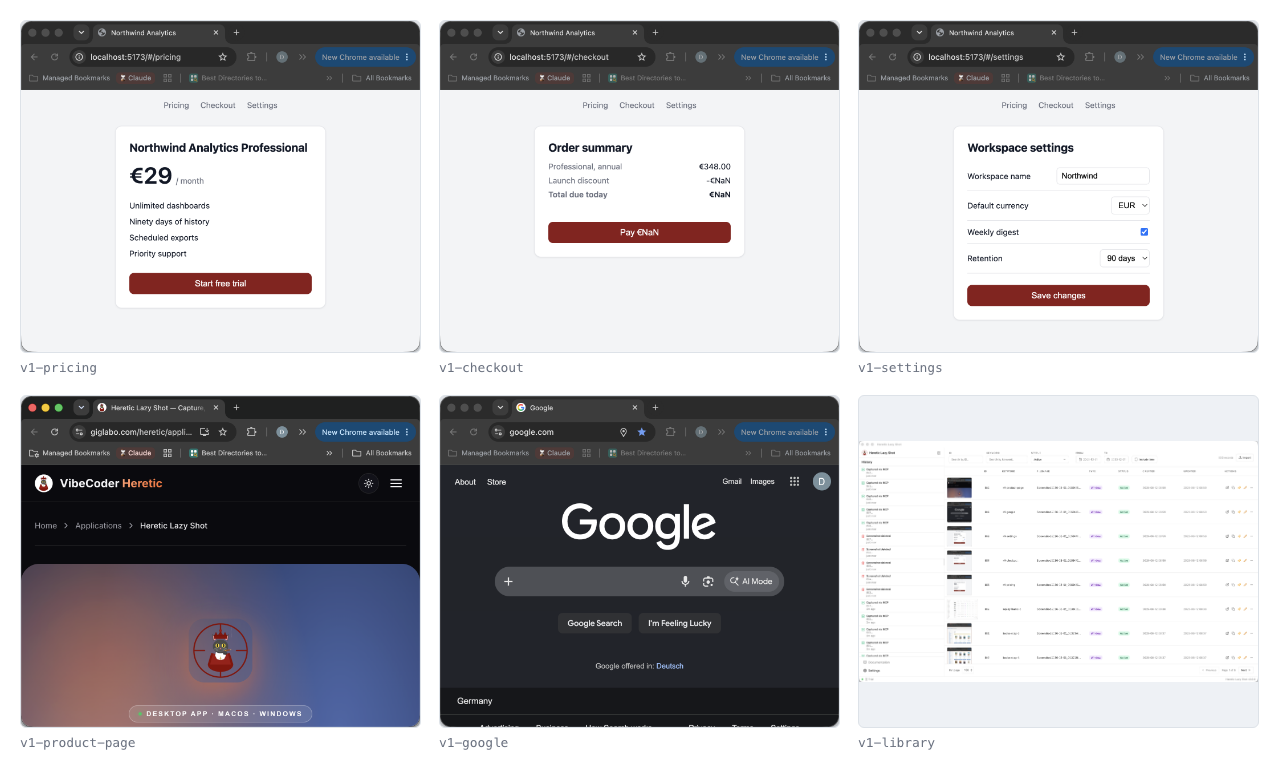
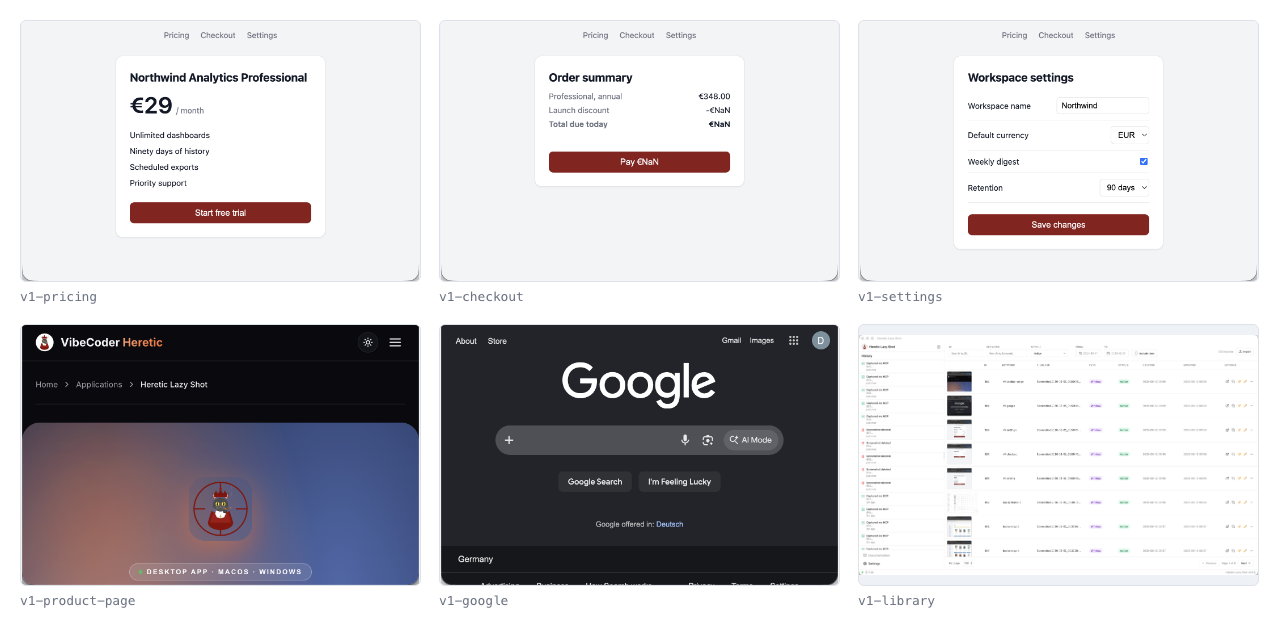
assets: A6 without the bookmarks bar
Same six windows, tiles cropped to the page. What had to leave the sheet was
readable text — a Managed Bookmarks folder and two bookmark titles across
every browser tile — not the profile avatar, which identifies nobody and was
never worth the re-shoot I started.

The bar could not be turned off from here, and the three dead ends are now in
the scenario so nobody repeats them. Cmd+Shift+B through System Events needs
Accessibility permission and fails silently, which makes the second press —
the one that restores the setting — dangerous rather than merely useless.
Incognito shows the bar too; it is a global setting, and all incognito drops
is the avatar. Guest mode does hide it and lands on Chrome's search-engine
choice screen instead, with --disable-search-engine-choice-screen ignored
because an instance was already running.

So: crop below the toolbar. A plain crop, not a splice — the sheet shows six
screens rather than six window frames, and nothing is stitched back together.

1280 x 632, 136 KB. OCR of the finished sheet finds no bookmark, folder or
account text.

diff --git a/scenarios/A6-sweep-grid.md b/scenarios/A6-sweep-grid.md
@@ -1,6 +1,6 @@
 # A6 — the release sweep contact sheet
 
-**Output:** ✅ **shot** — `assets/recipes/04-release-day-batch-capture/sweep-grid.png`, 1280 × 774, 168 KB.
+**Output:** ✅ **shot** — `assets/recipes/04-release-day-batch-capture/sweep-grid.png`, 1280 × 632, 136 KB.
 
 One command, a set of named artifacts. The asset is about *volume and naming* — the individual tiles don't need to be readable, the keywords do.
 
@@ -68,12 +68,20 @@ The bad tile is real. `./step.sh checkout-broken` leaves `subtotal * '10%'` in t
 
 ## Curate before you shoot, not after
 
-Everything in this grid ends up in a public repository, and window chrome carries more than you think. Two tiles were cut from this shoot after looking at them at full size:
+Everything in this grid ends up in a public repository, and window chrome carries more than the window does. Two things were cut from this shoot after looking at the captures at full size:
 
-- A **Finder** window showed the account name in the sidebar — a work email address and the machine's hostname — from a folder listing that seemed harmless.
-- The first pass had the **bookmarks bar** in frame on every browser tile, including a `Managed Bookmarks` folder that says the profile belongs to a managed device.
+- A **Finder** tile showed the account name in the sidebar — a work email address and the machine's hostname — from a folder listing that had looked harmless.
+- Every browser tile carried the **bookmarks bar**: a `Managed Bookmarks` folder, which says the profile belongs to a managed device, plus two bookmark titles.
 
-Hide the bookmarks bar (`Cmd+Shift+B`) before the sweep rather than cropping it afterwards, and prefer an incognito window for anything you don't want carrying a profile avatar. Do not try to send that shortcut from a script; `System Events` keystrokes need Accessibility permission and fail silently without it, which on the second attempt means you toggle the user's setting and don't know it.
+What matters is **readable text** — addresses, folder and bookmark names, window titles, hostnames. A profile avatar showing one letter is not worth a re-shoot; a bookmark called after a client is.
+
+The bookmarks bar turned out to be surprisingly hard to remove, so save yourself the detour:
+
+- `Cmd+Shift+B` works, but only from your own hands. Sent through AppleScript's `System Events` it needs Accessibility permission and **fails silently** without it — and a silent failure means the second press, the one meant to put the bar back, toggles a setting you never changed.
+- **Incognito does not help.** The bar is a global Chrome setting and incognito windows show it too. It does drop the profile avatar, which is the thing that didn't matter.
+- **Guest mode does** hide it — and opens on Chrome's "Choose Your Search Engine" screen, which needs a click to get past. `--disable-search-engine-choice-screen` is ignored when an instance is already running.
+
+So the tiles here are **cropped to the page**, below the whole toolbar. That is a plain crop, not a splice: nothing is stitched back together, and the sheet shows six screens rather than six window frames. If your bookmarks bar is already off, keep the chrome — it reads better.
 
 The general rule stands: close anything with a client name, a private repo, an inbox, or a chat in it, and read every tile at full size before it goes into the sheet.
 
@@ -92,14 +100,14 @@ Step 2 matters on camera as much as off it: the human curating the list is the h
 
 ## Composing the sheet
 
-Tiles are laid out 3 × 2 at a uniform 401 × 333 box with the keyword under each. Windows come in wildly different aspect ratios, so fit them into the box with letterboxing rather than cropping to fill:
+Tiles are laid out 3 × 2 at a uniform 401 × 262 box with the keyword under each. Windows come in wildly different aspect ratios, so fit them into the box with letterboxing rather than cropping to fill:
 
 ```css
 .tile { display: flex; align-items: center; justify-content: center; background: #eef1f5; }
 .tile img { max-width: 100%; max-height: 100%; }
 ```
 
-A cropped tile loses the window's shape, and the shape is how you recognise it at 400 px.
+Cropping to *fill* the box is the thing to avoid: it takes a bite out of whichever edge doesn't fit, and at 400 px the proportions are most of how you recognise a tile. Cropping the toolbar away before the tile goes in the box is a different act and fine — every tile is then framed the same way.
 
 ## Embed
 
@@ -112,7 +120,7 @@ Recipe 04, replacing the `TODO(assets): A6` placeholder:
 ## Checklist
 
 - [x] Every tile captioned with its keyword; captions not cropped
-- [x] Nothing confidential in any tile — checked at full size, two tiles cut
+- [x] Nothing confidential in any tile — checked at full size; one tile cut, the toolbars cropped
 - [x] Uniform tile geometry, letterboxed rather than cropped
 - [x] One tile is obviously wrong, and wrong for a real reason
 - [x] Under 1 MB

diff --git a/docs/ASSETS.md b/docs/ASSETS.md
@@ -30,7 +30,7 @@ ffmpeg -framerate 1 -i %02d.png -vf "scale=1280:-1:flags=lanczos,split[s0][s1];\
 | A3 | `assets/recipes/01-self-documenting-ui/annotated-flow.png` | Filmstrip | ✅ 1280×473, 100 KB | Recipe 01 |
 | A4 | `assets/recipes/02-visual-bug-fixing/before-after.png` | Diptych | ✅ 1276×390, 48 KB | Recipe 02 |
 | A5 | `assets/recipes/03-complex-site-navigation/session-replay.gif` | Recording | ✅ 1280×650, 483 KB, 9.3 s | Recipe 03 |
-| A6 | `assets/recipes/04-release-day-batch-capture/sweep-grid.png` | Contact sheet | ✅ 1280×774, 168 KB | Recipe 04 |
+| A6 | `assets/recipes/04-release-day-batch-capture/sweep-grid.png` | Contact sheet | ✅ 1280×632, 136 KB | Recipe 04 |
 | A7 | `assets/recipes/05-copy-the-uncopyable/ocr-to-markers.png` | Triptych | ✅ 1280×781, 184 KB | Recipe 05 |
 | A8 | `assets/setup/settings-mcp.png` | Still | ✅ 1280×500, 72 KB | README setup + SETUP.md |
 | A9 | `assets/setup/claude-code-connected.png` | Still | ✅ 890×184, 20 KB | SETUP.md |
@@ -140,7 +140,7 @@ The link preview. Seen more often than the README itself, by people who haven't 
 
 **Must contain:** a contact sheet of one real release sweep — different windows captured in a single agent run, each tile captioned with its keyword (`v1-settings`, `v1-checkout`, …). Uniform tile size, small gutters, letterboxed rather than cropped to fill.
 
-**Produce:** ✅ **done** — shot 2026-08-12, 1280 × 774, six tiles at 401 px. Run the recipe 04 prompt, then lay the captures out on a grid. **3 × 2, not 4 × 3:** at twelve tiles the defect that justifies the whole sweep is 298 px wide and unreadable; at six it reads.
+**Produce:** ✅ **done** — shot 2026-08-12, 1280 × 632, six tiles at 401 px, each cropped to the page so no bookmarks bar reaches the sheet. Run the recipe 04 prompt, then lay the captures out on a grid. **3 × 2, not 4 × 3:** at twelve tiles the defect that justifies the whole sweep is 298 px wide and unreadable; at six it reads.
 
 **The point it must make:** volume and naming — plus one tile that is visibly wrong. Here `v1-checkout` renders every total as `€NaN`, from the demo app's real bug, so the sheet says "we swept the release and found something" rather than "we took six screenshots". Don't crop the captions.
 
